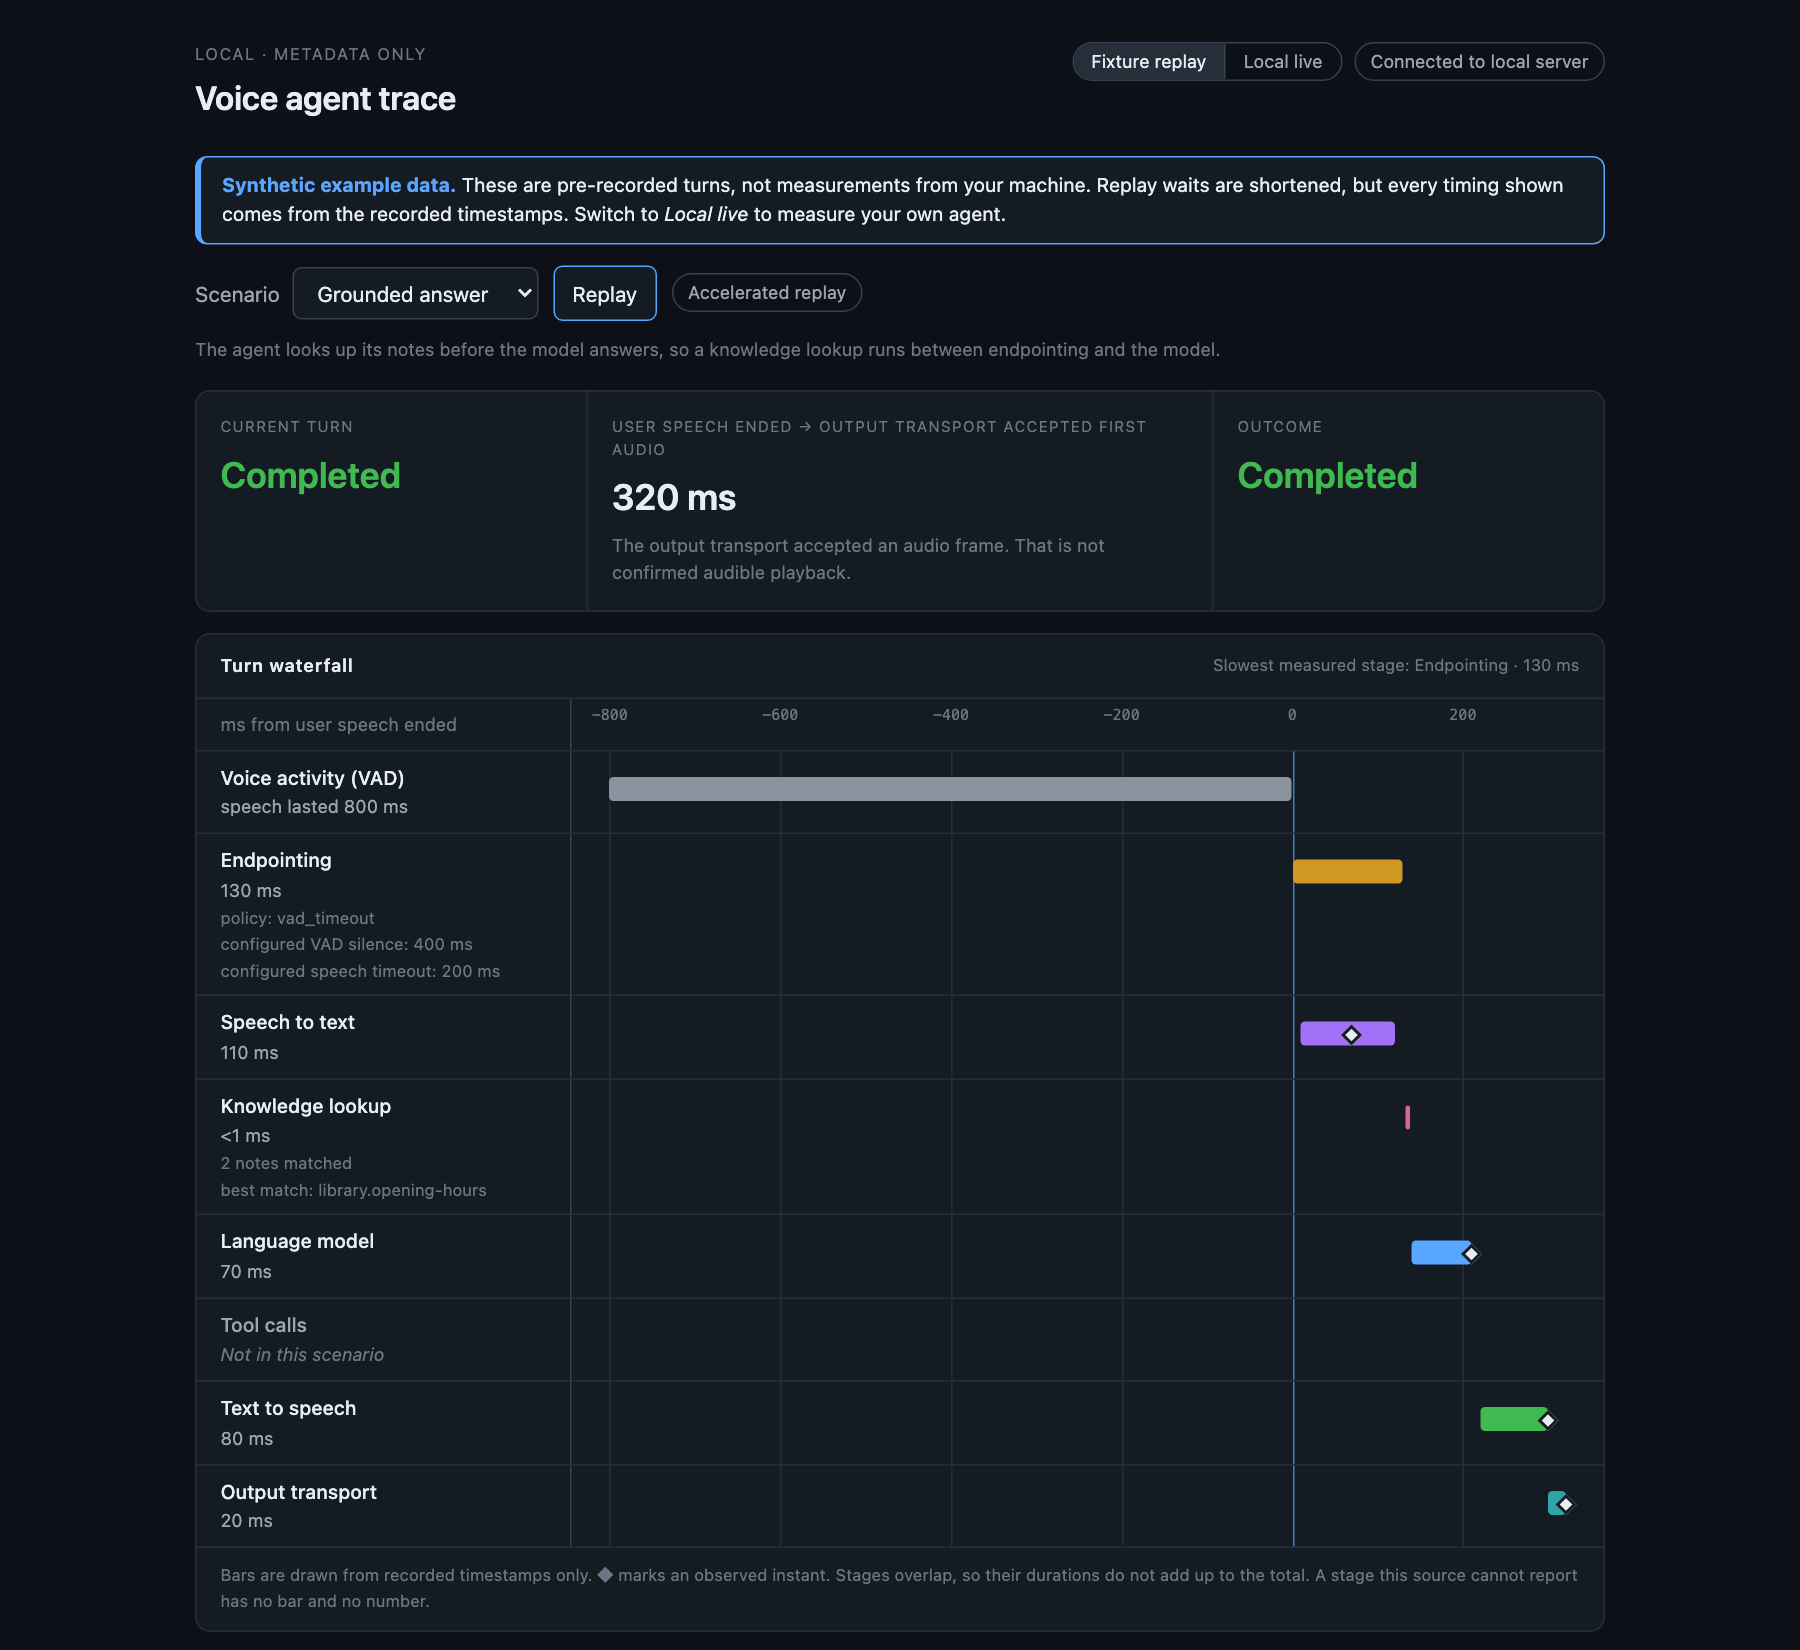
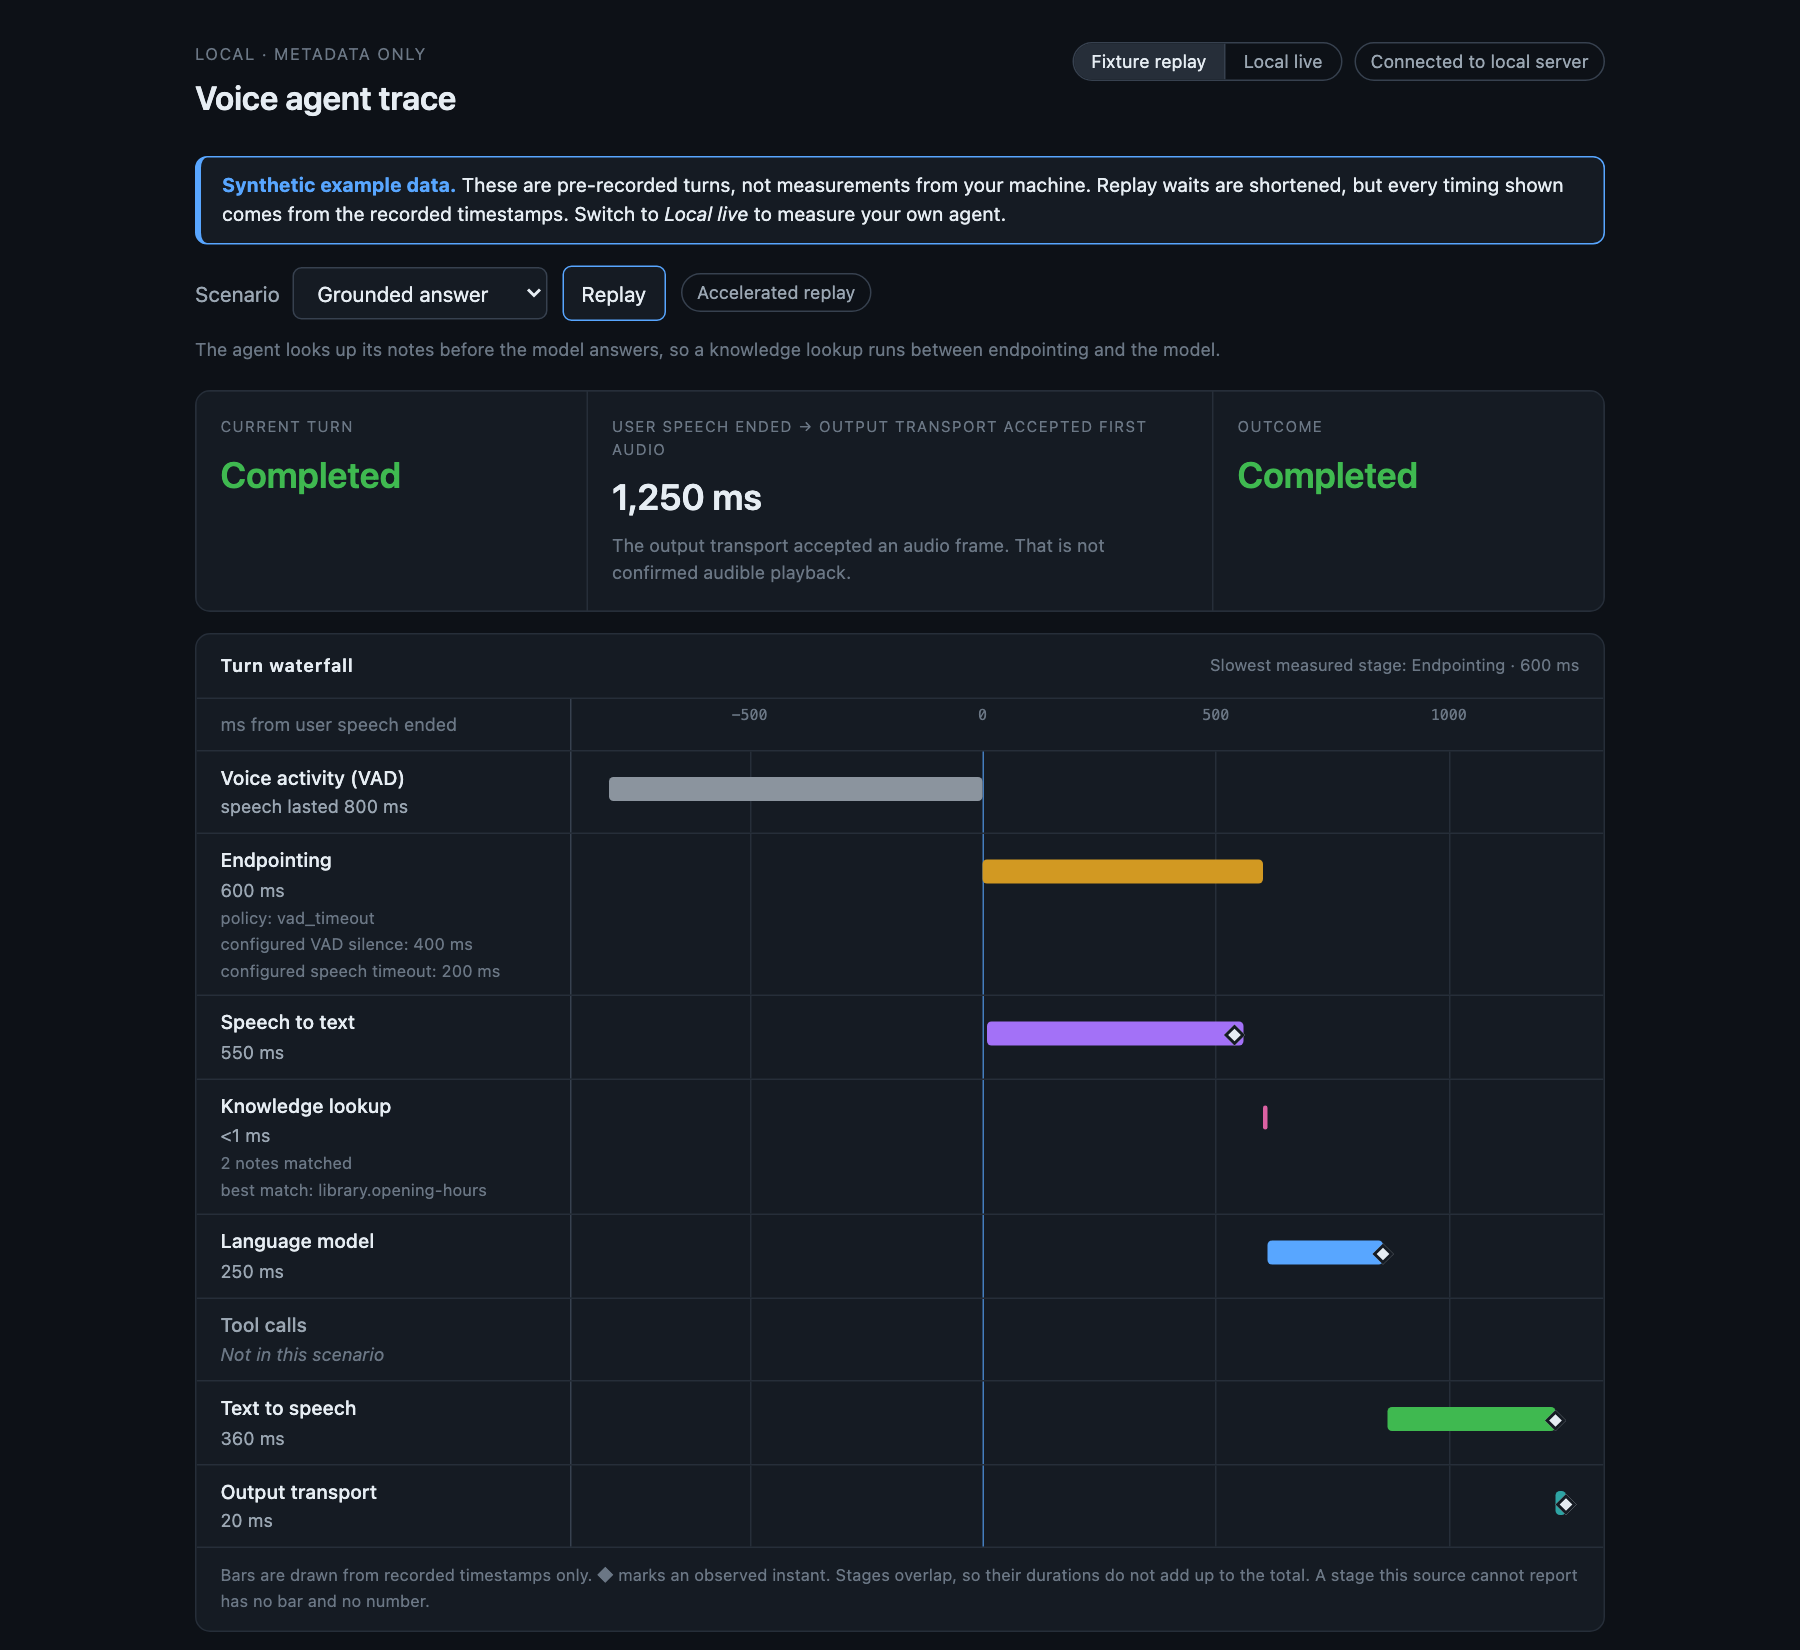
fix: make the recorded turns run at realistic speeds, and refresh the README screenshot
A normal recorded turn showed 320 ms from speech end to first audio, with every
stage 70 to 130 ms. That contradicts what this repo measures (about 1.3 to 1.8 s
on a local stack), and the page opens on that turn.

The normal, grounded, interrupted and answered-too-early fixtures now use the
fixture's own settings (a 600 ms endpointing wait) and stage times from this
repo's runs: speech to text 550 ms, model 250 ms, speech synthesis 360 ms, first
audio at 1,250 ms. Answered too early keeps its lesson, at 1,050 ms. Only
timestamps changed; each fixture still validates against the contract.

The fixture-dependent test expectations were derived from the new timeline. The
README screenshot is regenerated at the same size.

diff --git a/ui/tests/model/waterfall.test.ts b/ui/tests/model/waterfall.test.ts
@@ -22,13 +22,13 @@ describe("measured stages come from recorded timestamps", () => {
   it("normal turn: every stage but tools is measured, relative to speech ending", () => {
     const wf = build("normal-completed");
     expect(row(wf, "user_speech")).toMatchObject({ status: "measured", startMs: -800, endMs: 0, durationMs: 800 });
-    expect(row(wf, "endpointing")).toMatchObject({ status: "measured", startMs: 0, endMs: 130, durationMs: 130 });
-    expect(row(wf, "stt")).toMatchObject({ status: "measured", startMs: 10, endMs: 120, durationMs: 110, markerMs: 70 });
-    expect(row(wf, "llm")).toMatchObject({ status: "measured", startMs: 140, endMs: 210, durationMs: 70 });
-    expect(row(wf, "tts")).toMatchObject({ status: "measured", startMs: 220, endMs: 300, durationMs: 80 });
-    expect(row(wf, "output_transport")).toMatchObject({ status: "measured", startMs: 300, endMs: 320, durationMs: 20, markerMs: 320 });
+    expect(row(wf, "endpointing")).toMatchObject({ status: "measured", startMs: 0, endMs: 600, durationMs: 600 });
+    expect(row(wf, "stt")).toMatchObject({ status: "measured", startMs: 10, endMs: 560, durationMs: 550, markerMs: 540 });
+    expect(row(wf, "llm")).toMatchObject({ status: "measured", startMs: 610, endMs: 860, durationMs: 250 });
+    expect(row(wf, "tts")).toMatchObject({ status: "measured", startMs: 870, endMs: 1230, durationMs: 360 });
+    expect(row(wf, "output_transport")).toMatchObject({ status: "measured", startMs: 1230, endMs: 1250, durationMs: 20, markerMs: 1250 });
     expect(row(wf, "tools").status).toBe("not_in_scenario");
-    expect(wf.slowest).toEqual({ label: "Endpointing", latencyMs: 130 });
+    expect(wf.slowest).toEqual({ label: "Endpointing", latencyMs: 600 });
   });
 
   it("slow blocking tool: the tool is the slowest stage and holds first audio back", () => {
@@ -42,14 +42,14 @@ describe("measured stages come from recorded timestamps", () => {
 
   it("interrupted turn: audio was accepted before the interruption", () => {
     const wf = build("interrupted");
-    expect(row(wf, "output_transport")).toMatchObject({ status: "measured", endMs: 270 });
-    expect(wf.slowest).toEqual({ label: "Language model", latencyMs: 80 });
+    expect(row(wf, "output_transport")).toMatchObject({ status: "measured", endMs: 1250 });
+    expect(wf.slowest).toEqual({ label: "Text to speech", latencyMs: 360 });
   });
 
   it("answered too early: a short wait and fast first audio, then the turn is interrupted", () => {
     const wf = build("false-endpoint");
     expect(row(wf, "endpointing")).toMatchObject({ status: "measured", startMs: 0, endMs: 400, durationMs: 400 });
-    expect(row(wf, "output_transport")).toMatchObject({ status: "measured", endMs: 770 });
+    expect(row(wf, "output_transport")).toMatchObject({ status: "measured", endMs: 1050 });
     expect(row(wf, "tools").status).toBe("not_in_scenario");
   });
 
@@ -137,7 +137,7 @@ describe("speech-to-text overlaps speaking", () => {
     const events = fixtureEvents("normal-completed").map((e) =>
       e.event_name === "stt.started" ? { ...e, timestamp_ns: 1_000_000_000 } : e);   // 800 ms before speech ended
     const stt = row(buildWaterfall(turnOf(events), fixtureCtx), "stt");
-    expect(stt).toMatchObject({ startMs: -800, endMs: 120, durationMs: 920, latencyMs: 120 });
+    expect(stt).toMatchObject({ startMs: -800, endMs: 560, durationMs: 1360, latencyMs: 560 });
     expect(stt.notes).toContain("counts only the time after you stopped talking");
   });
 
@@ -166,12 +166,12 @@ describe("axis", () => {
   it("is zero at speech ending and ignores the trailing terminal event", () => {
     const { axis } = build("normal-completed");
     expect(axis.originLabel).toBe("user speech ended");
-    // Data spans −800 … +320 ms; the axis adds 4% of that span on each side, and
-    // the trailing turn.completed (at +800 ms) does not stretch it.
-    expect(axis.minMs).toBeCloseTo(-800 - 0.04 * 1120, 6);
-    expect(axis.maxMs).toBeCloseTo(320 + 0.04 * 1120, 6);
+    // Data spans −800 … +1250 ms; the axis adds 4% of that span on each side, and
+    // the trailing turn.completed (at +3800 ms) does not stretch it.
+    expect(axis.minMs).toBeCloseTo(-800 - 0.04 * 2050, 6);
+    expect(axis.maxMs).toBeCloseTo(1250 + 0.04 * 2050, 6);
     expect(axis.ticks).toContain(0);
-    expect(axis.ticks.every((t) => t >= -800 && t <= 320)).toBe(true);
+    expect(axis.ticks.every((t) => t >= -800 && t <= 1250)).toBe(true);
   });
 
   it("places every bar inside the lane", () => {

diff --git a/ui/tests/App.test.tsx b/ui/tests/App.test.tsx
@@ -38,7 +38,7 @@ describe("the page", () => {
   it("a completed replay: state, the primary metric, and what it does not mean", () => {
     const page = text(html(replayState("normal-completed")));
     expect(page).toContain("Completed");
-    expect(page).toContain("320 ms");
+    expect(page).toContain("1,250 ms");
     expect(page).toContain("User speech ended → output transport accepted first audio");
     expect(page).toContain("not confirmed audible playback");
     expect(page).not.toMatch(/\baudible playback confirmed|heard\b/i);
@@ -51,7 +51,7 @@ describe("the page", () => {
   it("an interrupted replay renders Interrupted", () => {
     const page = text(html(replayState("interrupted")));
     expect(page).toContain("Interrupted");
-    expect(page).toContain("270 ms");
+    expect(page).toContain("1,250 ms");
   });
 
   it("a failed replay is Unavailable with a reason, never 0 ms", () => {
@@ -83,7 +83,7 @@ describe("the page", () => {
   it("lists the events received in time order", () => {
     const page = text(html(replayState("normal-completed")));
     expect(page.indexOf("user_speech.started")).toBeLessThan(page.indexOf("output_transport.first_audio"));
-    expect(page).toContain("+1,120 ms");
+    expect(page).toContain("+2,050 ms");
   });
 
   it("shows a fixed notice, not server text, when the pipeline errors", () => {
@@ -202,7 +202,7 @@ describe("the waterfall on the page", () => {
     expect(page).toContain("speech lasted 800 ms");
     expect(page).toContain("policy: vad_timeout");
     expect(page).toContain("configured VAD silence: 400 ms");
-    expect(page).toContain("Slowest measured stage: Endpointing · 130 ms");
+    expect(page).toContain("Slowest measured stage: Endpointing · 600 ms");
     expect(page).toContain("ms from user speech ended");
   });
 
@@ -261,10 +261,10 @@ describe("the waterfall on the page", () => {
 
 describe("live-scale timestamps (epoch nanoseconds)", () => {
   it.each([
-    ["normal-completed", "320 ms", "Completed"],
+    ["normal-completed", "1,250 ms", "Completed"],
     ["slow-blocking-tool", "3,270 ms", "Completed"],
-    ["interrupted", "270 ms", "Interrupted"],
-    ["false-endpoint", "770 ms", "Interrupted"],
+    ["interrupted", "1,250 ms", "Interrupted"],
+    ["false-endpoint", "1,050 ms", "Interrupted"],
   ] as const)("%s renders the same numbers as the small-timestamp fixture", (name, metric, outcome) => {
     const state = fold([fixtureHello(), { kind: "replay_reset", scenario: name },
                         ...epochFixtureEvents(name).map(telemetry)]);

diff --git a/ui/tests/model/turn.test.ts b/ui/tests/model/turn.test.ts
@@ -9,10 +9,10 @@ const progression = (name: FixtureName) =>
 
 describe("primary metric: speech ended → output transport accepted first audio", () => {
   it.each([
-    ["normal-completed", 320],
+    ["normal-completed", 1250],
     ["slow-blocking-tool", 3270],
-    ["interrupted", 270],
-    ["false-endpoint", 770],
+    ["interrupted", 1250],
+    ["false-endpoint", 1050],
   ] as const)("%s measures %d ms from the recorded timestamps", (name, ms) => {
     expect(primaryMetric(turnOf(fixtureEvents(name)))).toEqual({ status: "measured", ms });
   });
@@ -126,7 +126,7 @@ describe("event log", () => {
   it("orders by time and offsets from the first event, without inventing zeros", () => {
     const log = eventLog(turnOf(fixtureEvents("normal-completed")));
     expect(log[0]).toMatchObject({ name: "user_speech.started", offsetMs: null });
-    expect(log.find((r) => r.name === "output_transport.first_audio")?.offsetMs).toBe(1120);
+    expect(log.find((r) => r.name === "output_transport.first_audio")?.offsetMs).toBe(2050);
     expect(log.map((r) => r.name)).toContain("turn.completed");
   });
 

diff --git a/ui/tests/state/reducer.test.ts b/ui/tests/state/reducer.test.ts
@@ -13,7 +13,7 @@ describe("replay", () => {
   it("ends a normal replay Completed with the measured metric", () => {
     const state = replayState("normal-completed");
     expect(deriveState(state.turn)).toBe("Completed");
-    expect(primaryMetric(state.turn)).toEqual({ status: "measured", ms: 320 });
+    expect(primaryMetric(state.turn)).toEqual({ status: "measured", ms: 1250 });
     expect(outcomeView(state)).toEqual({ kind: "observed", outcome: "completed", classification: null });
   });
 
@@ -62,7 +62,7 @@ describe("a new turn clears stale state", () => {
 
   it("does not let the first turn's numbers leak into the second", () => {
     const state = fold([...a.map(telemetry), ...b.map(telemetry)], fold([hello()]));
-    expect(primaryMetric(state.turn)).toEqual({ status: "measured", ms: 270 });
+    expect(primaryMetric(state.turn)).toEqual({ status: "measured", ms: 1250 });
     expect(outcomeOf(state.turn)).toBe("interrupted");
   });
 });

diff --git a/ui/src/model/scenarios.ts b/ui/src/model/scenarios.ts
@@ -16,7 +16,7 @@ const NAMES: Record<string, { title: string; blurb: string }> = {
   },
   "false-endpoint": {
     title: "Answered too early",
-    blurb: "A one-second pause is read as the end of your turn. The agent answers fast, then you carry on and it is cut off.",
+    blurb: "A pause of a second or more is read as the end of your turn. The agent answers sooner than usual, then you carry on and it is cut off.",
   },
   "failed-tool": {
     title: "Failed tool",

diff --git a/CHANGELOG.md b/CHANGELOG.md
@@ -31,6 +31,12 @@ separately (see [SPANS.md](SPANS.md)); releases 1.0.0 and 1.0.1 ship contract `1
 
 ### Changed
 
+- The recorded turns now run at realistic speeds. A normal turn showed 320 ms from
+  speech end to first audio, with every stage 70 to 130 ms, which contradicted what
+  this repo measures (about 1.3 to 1.8 s on a local stack). The normal, grounded,
+  interrupted and answered-too-early turns now use the fixture's own settings (a
+  600 ms endpointing wait) and stage times taken from this repo's runs, so a normal
+  turn is 1,250 ms and the README screenshot shows it. The page opens on that turn.
 - The silent-microphone warning on the page is now a short list of steps that starts
   with the Mac's own input setting (System Settings → Sound → Input) and keeps
   `make devices` and `VOICE_AUDIO_DEVICE` as the fallback, instead of sending
